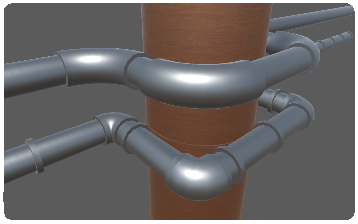
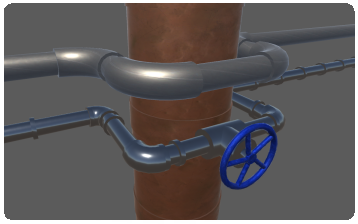
Update Pipe Builder page.

diff --git a/DemoSite/Unity/PipeBuilder/PipeBuilder.html b/DemoSite/Unity/PipeBuilder/PipeBuilder.html
@@ -51,7 +51,7 @@
 <div class='section-title'>
 <div class='text-left'><h2>Creating your first Pipe:</h2>
 </div>
-<div class='text-center'></br>To start creating pipes add the main prefab <strong>'PipeBase_pf'</strong> into the map.</br>With this prefab selected click on the <strong>'Add Pipe'</strong> button. This will create a simple straight pipe.</br>Now you can start to position your pipe</br>If you need more nodes just click on the <strong>'Extend Pipe'</strong> button and this will create another node in the direction of the pipe.</br>You can see a basic pipe creation in this video</br></br><div class='text-center'><iframe width='854' height='480' src='https://www.youtube.com/embed/SylhKZ2sPhQ?rel=0' frameborder='0' allowfullscreen></iframe></div></div></div>
+<div class='text-center'></br>To start creating pipes add the main prefab <strong>'PipeBase_pf'</strong> into the map.</br>With this prefab selected click on the <strong>'Add Pipe'</strong> button. This will create a simple straight pipe.</br>Now you can start to position your pipe</br>If you need more nodes just click on the <strong>'Extend Pipe'</strong> button and this will create another node in the direction of the pipe.</br>After you have positioned all your nodes just press <strong>Generate pipe Mesh</strong></br>You can see a basic pipe creation in this video</br></br><div class='text-center'><iframe width='854' height='480' src='https://www.youtube.com/embed/SylhKZ2sPhQ?rel=0' frameborder='0' allowfullscreen></iframe></div></div></div>
 </div>
 </div>
 <br />
@@ -61,7 +61,7 @@
 <div class='section-title'>
 <div class='text-left'><h2>Inspector Details</h2>
 </div>
-<div class='row'><div class='col-md-6'><div class='text-right'><img src='images/PipeDetailsInspector.png' width=70%px ></div></div><div class='col-md-6'><div class='text-left'><div class='d-flex align-items-middle' style='height: 450px'><p>Main Details</br><strong>Sides: </strong>Number of sides of the pipe<br /><strong>Radius: </strong>The size of the pipe<br /></br></br>Flange Details</br><strong>Flange: </strong>Whether to add flanges<br /><strong>Length: </strong>The length of the flanges<br /><strong>Interval: </strong>How often to add flanges<br /><strong>Size: </strong>The size of the flanges. Can me negative if needed<br /></br></br>Corners Details</br>We will cover the corners below.</br></p></div></div></div></div></br>You can see some of the different pipe details In this video.</br></br><div class='text-center'><iframe width='854' height='480' src='https://www.youtube.com/embed/tsG1y81gin0?rel=0' frameborder='0' allowfullscreen></iframe></div></div>
+<div class='row'><div class='col-md-6'><div class='text-right'><img src='images/PipeDetailsInspector.png' width=70%px ></div></div><div class='col-md-6'><div class='text-left'><div class='d-flex align-items-middle' style='height: 450px'><p>Main Details</br><strong>Sides: </strong>Number of sides of the pipe<br /><strong>Radius: </strong>The size of the pipe<br /><strong>UV Modifier: </strong>Scale the UVs<br /><strong>Auto Build: </strong>Rebuild the mesh each time you move a node<br /><strong>Inside Pipe: </strong>Flips the normals, So you are inside the pipe<br /></br></br>Flange Details</br><strong>Flange: </strong>Whether to add flanges<br /><strong>Length: </strong>The length of the flanges<br /><strong>Interval: </strong>How often to add flanges<br /><strong>Size: </strong>The size of the flanges. Can me negative if needed<br /></br></br>Corners Details</br>We will cover the corners below.</br></br>Bake Lighting Details</br>We will cover the bake lighting below.</br></br></br></p></div></div></div></div></br>You can see some of the different pipe details In this video.</br></br><div class='text-center'><iframe width='854' height='480' src='https://www.youtube.com/embed/tsG1y81gin0?rel=0' frameborder='0' allowfullscreen></iframe></div></div>
 </div>
 </div>
 <br />
@@ -111,7 +111,7 @@
 <div class='section-title'>
 <div class='text-left'><h2>Version 2</h2>
 </div>
-<div class='text-center'></br>Version 2 Adds</br></br>Fittings like Wheel Gate, Leaver gates and others</br></br>More materials</br></br>Bake Lighting Options</br></br>Fixed some bugs:</br>Update on the UV mapping to keep it more balanced.</br>Update name of buttons in the inspectors</br>Some button now work when selecting more than one pipe base.</br></div></div>
+<div class='text-center'></br>Version 2 Adds</br></br>Fittings like Wheel Gate, Leaver gates and others</br></br>More materials</br></br>Bake Lighting Options</br></br>Fixed some bugs:</br>Update on the UV mapping to keep it more balanced.</br>Update name of buttons in the inspectors</br>Some button now work when selecting more than one GameObject.</br></div></div>
 </div>
 </div>
 <br />

diff --git a/eWolfSiteBuilder/_Site/Unity/PipeBuilder/PipeBuilder.cs b/eWolfSiteBuilder/_Site/Unity/PipeBuilder/PipeBuilder.cs
@@ -45,9 +45,9 @@ namespace eWolfSiteBuilder._Site.Unity.PipeBuilder
             items.Add(new HTMLIndexedItems("Materials", CreateMaterials));
             items.Add(new HTMLIndexedItems("Create Pipes from Scripts", CreateCreatePipesFromScripts));
             items.Add(new HTMLIndexedItems("Version 2", CreateVersion2));
-            items.Add(new HTMLIndexedItems("v2 Fittings", CreateV2Fittings));
-            items.Add(new HTMLIndexedItems("v2 New Materials", CreateV2Materials));
-            items.Add(new HTMLIndexedItems("v2 Bake Lighting", CreateV2BakeLighting));
+            items.Add(new HTMLIndexedItems("Fittings (version 2)", CreateV2Fittings));
+            items.Add(new HTMLIndexedItems("New Materials (version 2)", CreateV2Materials));
+            items.Add(new HTMLIndexedItems("Bake Lighting (version 2)", CreateV2BakeLighting));
 
             items.Add(new HTMLIndexedItems("Support", PageDetailsHelper.AddSectionSupport));
 
@@ -236,6 +236,8 @@ namespace eWolfSiteBuilder._Site.Unity.PipeBuilder
             outer.NewLine();
             outer.TextBoldText("If you need more nodes just click on the ", "'Extend Pipe'", " button and this will create another node in the direction of the pipe.");
             outer.NewLine();
+            outer.TextBold("After you have positioned all your nodes just press ", "Generate pipe Mesh");
+            outer.NewLine();
             outer.Text("You can see a basic pipe creation in this video");
             outer.NewLine();
             outer.NewLine();
@@ -269,6 +271,9 @@ namespace eWolfSiteBuilder._Site.Unity.PipeBuilder
             right.NewLine();
             right.InspectorDetails("Sides", "Number of sides of the pipe");
             right.InspectorDetails("Radius", "The size of the pipe");
+            right.InspectorDetails("UV Modifier", "Scale the UVs");
+            right.InspectorDetails("Auto Build", "Rebuild the mesh each time you move a node");
+            right.InspectorDetails("Inside Pipe", "Flips the normals, So you are inside the pipe");
             right.NewLine();
             right.NewLine();
 
@@ -284,6 +289,14 @@ namespace eWolfSiteBuilder._Site.Unity.PipeBuilder
             right.Text("Corners Details");
             right.NewLine();
             right.Text("We will cover the corners below.");
+            right.NewLine();
+            right.NewLine();
+            right.Text("Bake Lighting Details");
+            right.NewLine();
+
+            right.Text("We will cover the bake lighting below.");
+            right.NewLine();
+            right.NewLine();
             right.NewLine();
 
             right.EndTextMiddel();
@@ -375,10 +388,14 @@ namespace eWolfSiteBuilder._Site.Unity.PipeBuilder
 
             outer.StartTextCenter();
             outer.NewLine();
-            outer.Text("Bake Lighting");
+            outer.Text("Should you want to use Bake lights in your scenes, you can turn this on at the base pipe object.");
+            outer.NewLine();
+            outer.NewLine();
+            outer.Text("You also have the option set if you need the pipe to cast shadows");
             outer.NewLine();
             outer.NewLine();
             outer.NewLine();
+            outer.TextBold("After you have update the lighting options just rebuild the mesh by clicking ", "Generate pipe Mesh");
 
             outer.EndTextCenter();
 
